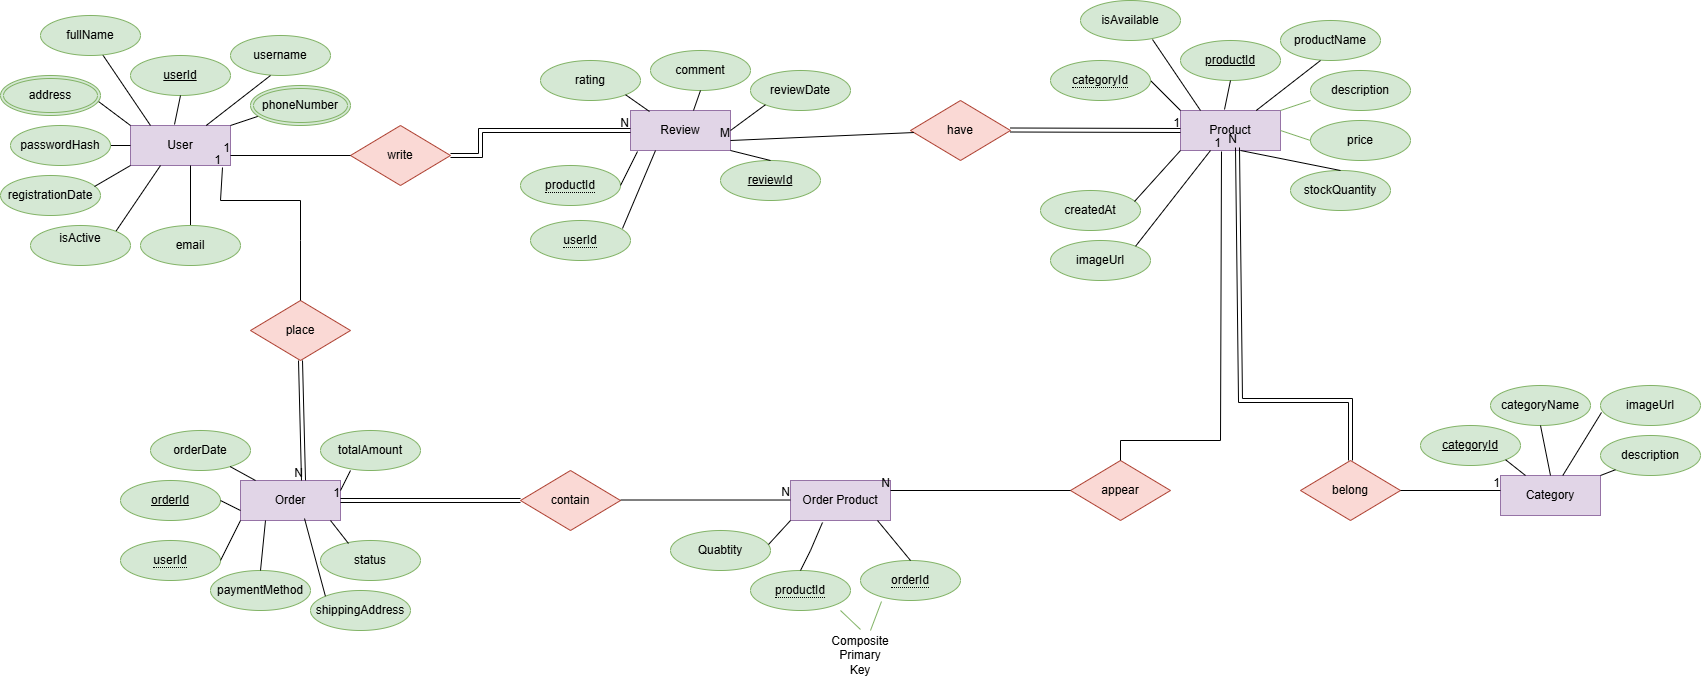
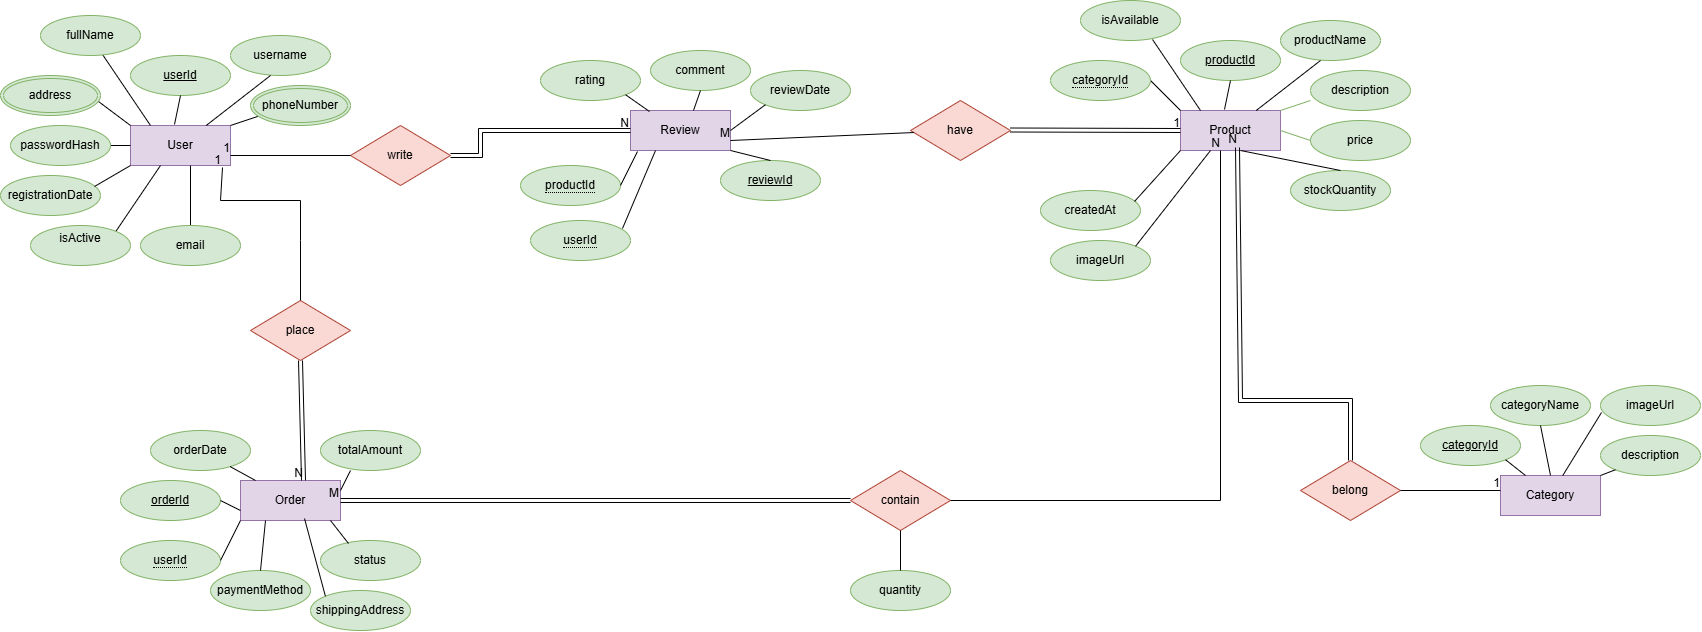
update ERD and models

diff --git a/E-Commerce System ERD & Models/Models/Review.cs b/E-Commerce System ERD & Models/Models/Review.cs
@@ -16,16 +16,6 @@ namespace E_Commerce_System_ERD___Models.Models
         public int reviewId { get; set; }  // system generated
 
         [Required]
-        [ForeignKey("User")]
-        public int userId { get; set; }   // user input
-
-
-        [Required]
-        [ForeignKey("Product")]
-        public int productId { get; set; }   // user input
-
-
-        [Required]
         [Range(1,5)]
         public int rating { get; set; }   // user input
 
@@ -37,10 +27,15 @@ namespace E_Commerce_System_ERD___Models.Models
         [Required]
         public DateTime reviewDate { get; set; }   // user input
 
+        [Required]
+        [ForeignKey("Product")]
+        public int productId { get; set; }   // user input
         //one to many
         public Product Product { get; set; } //Navigation Property => reviewes for one product
 
-
+        [Required]
+        [ForeignKey("User")]
+        public int userId { get; set; }   // user input
         //one to many
         public User User { get; set; } //Navigation Property => reviewes for one user
     }

diff --git a/E-Commerce System ERD & Models/Models/OrderProduct.cs b/E-Commerce System ERD & Models/Models/OrderProduct.cs
@@ -1,6 +1,7 @@
 using System;
 using System.Collections.Generic;
 using System.ComponentModel.DataAnnotations;
+using System.ComponentModel.DataAnnotations.Schema;
 using System.Linq;
 using System.Text;
 using System.Threading.Tasks;
@@ -9,19 +10,22 @@ namespace E_Commerce_System_ERD___Models.Models
 {
     public class OrderProduct
     {
-        [Required]
-        public int orderId { get; set; }   //Composite Primary Key   //user input
-
-        [Required]
-        public int productId { get; set; }  //Composite Primary Key    //user input
+        [Key]
+        [DatabaseGenerated(DatabaseGeneratedOption.Identity)]   // Auto-generated
+        public int orderProduct { get; set; }   // system generated
 
         [Required]
         [Range(1, 999)]
         public int quantity { get; set; }  //user input
 
+        [Required]
+        public int orderId { get; set; }   //Composite Primary Key   //user input
+
         // Navigation Properties
         public  Order Order { get; set; }  //one order have many order product
 
+        [Required]
+        public int productId { get; set; }  //Composite Primary Key    //user input
         // Navigation Properties
         public Product product { get; set; }  //one Product have many order product
 

diff --git a/E-Commerce System ERD & Models/Models/Order.cs b/E-Commerce System ERD & Models/Models/Order.cs
@@ -15,10 +15,6 @@ namespace E_Commerce_System_ERD___Models.Models
         [DatabaseGenerated(DatabaseGeneratedOption.Identity)]   // Auto-generated
         public int orderId { get; set; }  // system generated
 
-        [Required]
-        [ForeignKey ("User")]
-        public int userId { get; set; }   // user input
-
 
         [Required]
         public DateTime orderDate { get; set; }   // user input
@@ -43,6 +39,9 @@ namespace E_Commerce_System_ERD___Models.Models
         public string paymentMethod { get; set; }    // user input
 
 
+        [Required]
+        [ForeignKey("user")]
+        public int userId { get; set; }   // user input
         //one to many 
         public User user { get; set; } //Navigation Property =>order must be associated with exactly one user
 

diff --git a/E-Commerce System ERD & Models/Models/Product.cs b/E-Commerce System ERD & Models/Models/Product.cs
@@ -33,8 +33,6 @@ namespace E_Commerce_System_ERD___Models.Models
         [MaxLength(300)]
         public string? imageUrl { get; set; }  // user input
 
-        [ForeignKey("Category")]
-        public int categoryId { get; set; }  // user input
         
         [Required]
         public DateTime createdAt { get; set; }  // user input
@@ -44,8 +42,10 @@ namespace E_Commerce_System_ERD___Models.Models
         //many to many 
         public List<OrderProduct> OrderProducts { get; set; } //Navigation Property => product can hve many order products
 
+        [ForeignKey("Category")]
+        public int categoryId { get; set; }  // user input
         //one to many
-        public Category Categories { get; set; } //Navigation Property => one catogry has many products 
+        public Category Category { get; set; } //Navigation Property => one catogry has many products 
        
         //one to many
         public List<Review> Reviews { get; set; } //Navigation Property => product has many Reviews

diff --git a/E-Commerce System ERD & Models/obj/Debug/net8.0/E-Commerce System ERD & Models.AssemblyInfo.cs b/E-Commerce System ERD & Models/obj/Debug/net8.0/E-Commerce System ERD & Models.AssemblyInfo.cs
@@ -14,7 +14,7 @@ using System.Reflection;
 [assembly: System.Reflection.AssemblyCompanyAttribute("E-Commerce System ERD & Models")]
 [assembly: System.Reflection.AssemblyConfigurationAttribute("Debug")]
 [assembly: System.Reflection.AssemblyFileVersionAttribute("1.0.0.0")]
-[assembly: System.Reflection.AssemblyInformationalVersionAttribute("1.0.0+39b0319b28f129dc16e524137be23d8bb8f156d3")]
+[assembly: System.Reflection.AssemblyInformationalVersionAttribute("1.0.0+f1cc6eb3b4deac9e43a41ea31adca72c7643d512")]
 [assembly: System.Reflection.AssemblyProductAttribute("E-Commerce System ERD & Models")]
 [assembly: System.Reflection.AssemblyTitleAttribute("E-Commerce System ERD & Models")]
 [assembly: System.Reflection.AssemblyVersionAttribute("1.0.0.0")]